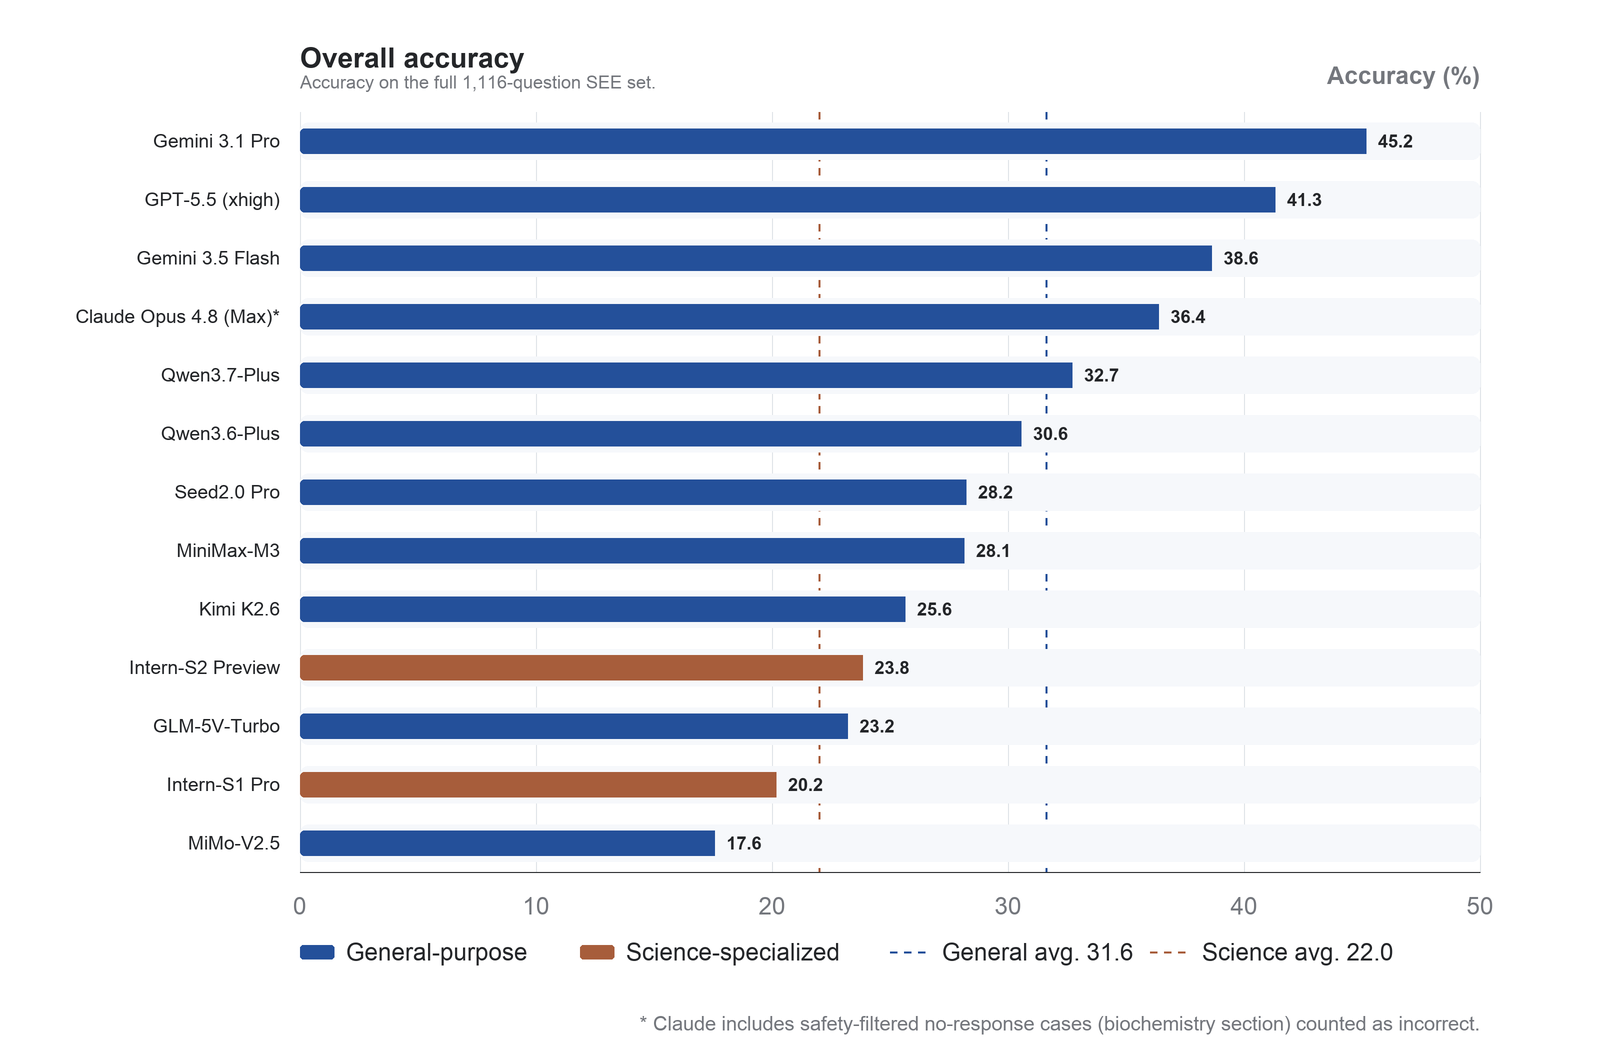
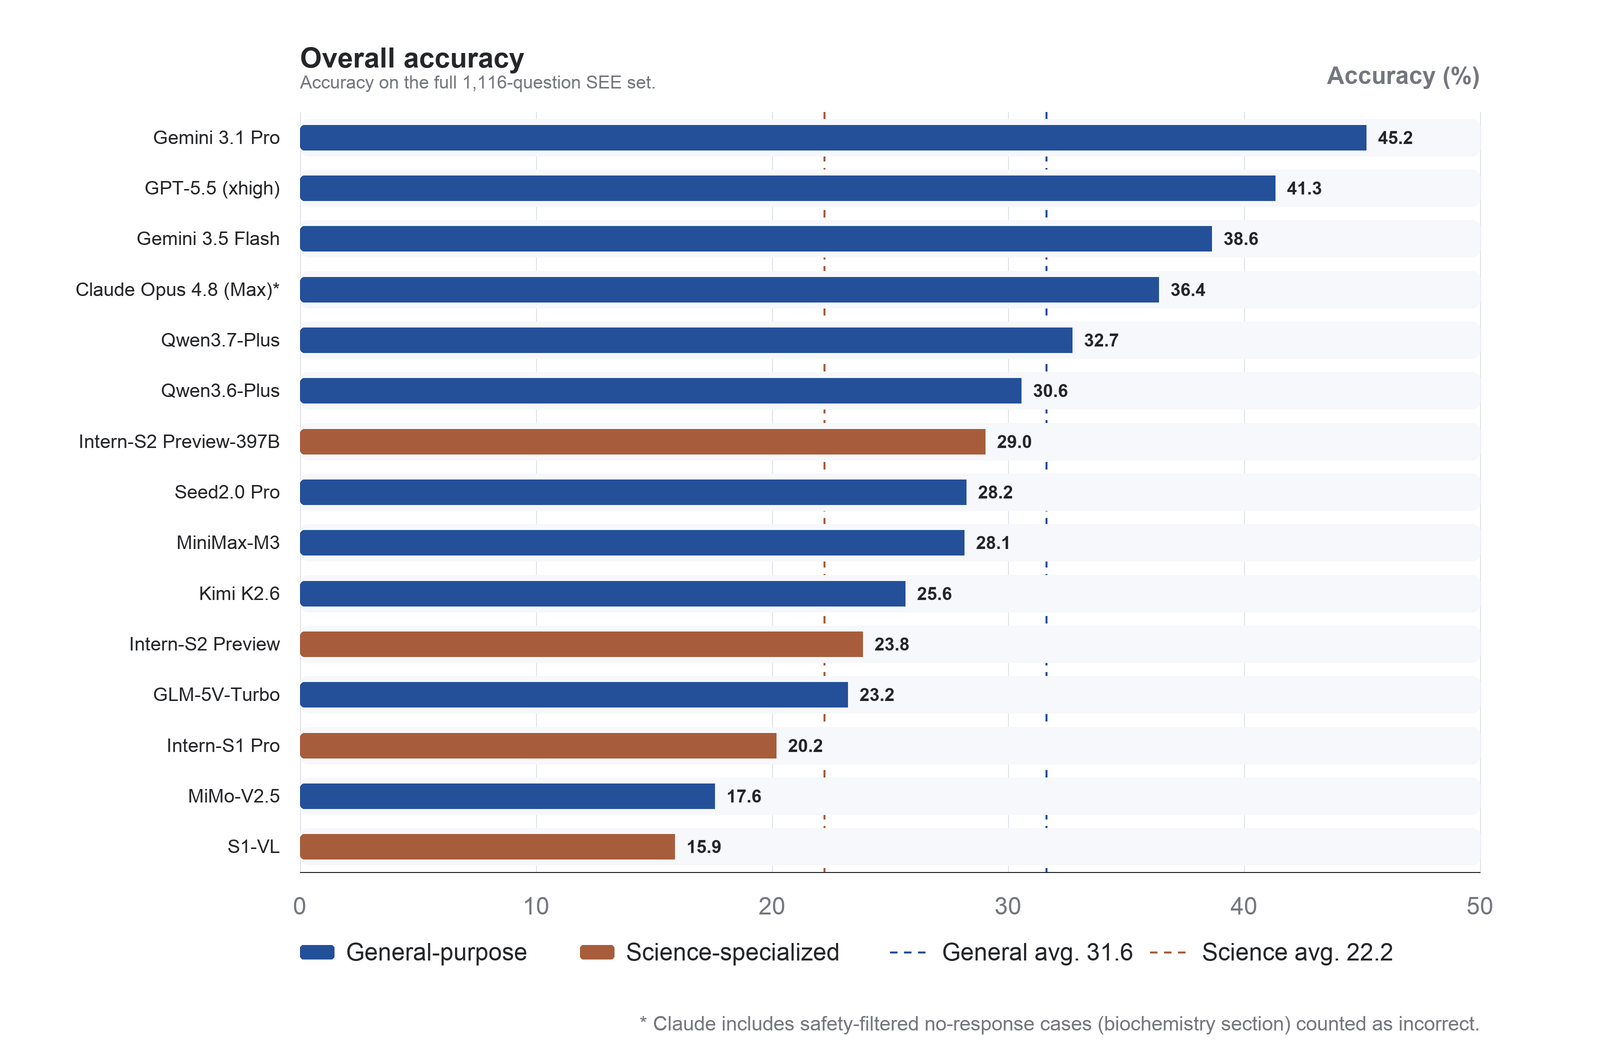
Update SEE release links and results

Changed region(s): [[0.0312, 0.0923, 0.875, 0.4615], [0.0625, 0.4923, 0.625, 0.8308]]

diff --git a/README.md b/README.md
@@ -5,9 +5,13 @@
 **Are Multimodal Large Language Models Ready for Real Laboratory Science?**
 
 <!-- TODO: replace with the final public URLs before release -->
-🔗 **Links:** [Paper](TODO_ARXIV_URL) | [GitHub](TODO_GITHUB_URL) | [Hugging Face](TODO_HUGGINGFACE_URL)
+🔗 **Links:** [Paper](TODO_ARXIV_URL) | [GitHub](https://github.com/SKYLENAGE-AI/science-edge-evaluation) | [Hugging Face](https://huggingface.co/datasets/skylenage-ai/science-edge-evaluation)
 
 **Overall accuracy:** The best-performing evaluated model reaches 45.2% accuracy on the full SEE benchmark.
+
+**Current evaluation snapshot:** We evaluate 15 MLLMs, including 4 science-specialized models. Science-specialized models reach 22.2% accuracy on average, below the 31.6% average of general-purpose models, although Intern-S2 Preview-397B reaches 29.0%, narrowing the gap relative to earlier science-specialized models and outperforming several mid-tier general-purpose models.
+
+**Model-version note:** S1-VL refers to the S1-VL-32B-RL checkpoint. Intern-S2 Preview-397B refers to the [InternLM release on Hugging Face](https://huggingface.co/internlm/Intern-S2-Preview-397B).
 
 This result highlights the difficulty of expert-level laboratory science for current multimodal models: even strong systems still leave substantial room for improvement in visual grounding, experimental reasoning, and cross-disciplinary evidence use.
 

diff --git a/README_zh.md b/README_zh.md
@@ -5,9 +5,13 @@
 **多模态大语言模型准备好进入真实实验室了吗？**
 
 <!-- TODO: 发布前替换为最终公开地址 -->
-🔗 **链接：** [论文](TODO_ARXIV_URL) | [GitHub](TODO_GITHUB_URL) | [Hugging Face](TODO_HUGGINGFACE_URL)
+🔗 **链接：** [论文](TODO_ARXIV_URL) | [GitHub](https://github.com/SKYLENAGE-AI/science-edge-evaluation) | [Hugging Face](https://huggingface.co/datasets/skylenage-ai/science-edge-evaluation)
 
 **总体准确率：** 在完整 SEE 基准上，当前评测中表现最好的模型准确率为 45.2%。
+
+**当前评测概览：** 我们共评测 15 个 MLLM，其中包括 4 个科学专门模型。科学专门模型平均准确率为 22.2%，低于通用模型平均值 31.6%；其中 Intern-S2 Preview-397B 达到 29.0%，相比更早的科学专门模型缩小了差距，并超过若干中等表现的通用模型。
+
+**模型版本说明：** 文中 S1-VL 指 S1-VL-32B-RL checkpoint。Intern-S2 Preview-397B 指 [InternLM 在 Hugging Face 发布的版本](https://huggingface.co/internlm/Intern-S2-Preview-397B)。
 
 这一结果表明，专家级实验室科学问题对当前多模态模型仍然具有明显挑战；即使是表现较强的模型，在图像证据理解、实验逻辑推理和跨学科证据整合方面仍有较大提升空间。
 

diff --git a/README_HF.md b/README_HF.md
@@ -27,6 +27,10 @@ configs:
 
 This is the Hugging Face dataset-card template for SEE. Before publishing to Hugging Face, copy this metadata block to the top of the Hugging Face repository `README.md`, then reuse the project introduction from `README.md`.
 
+Current evaluation snapshot: we evaluate 15 MLLMs, including 4 science-specialized models. The best-performing evaluated model reaches 45.2% accuracy on the full SEE benchmark. Science-specialized models reach 22.2% accuracy on average, below the 31.6% average of general-purpose models, although Intern-S2 Preview-397B reaches 29.0%, narrowing the gap relative to earlier science-specialized models and outperforming several mid-tier general-purpose models.
+
+Model-version note: S1-VL refers to the S1-VL-32B-RL checkpoint. Intern-S2 Preview-397B refers to the InternLM release on Hugging Face: https://huggingface.co/internlm/Intern-S2-Preview-397B
+
 Public data file: `data/questions_public.jsonl`
 
 Model-facing images: `data/images/`
